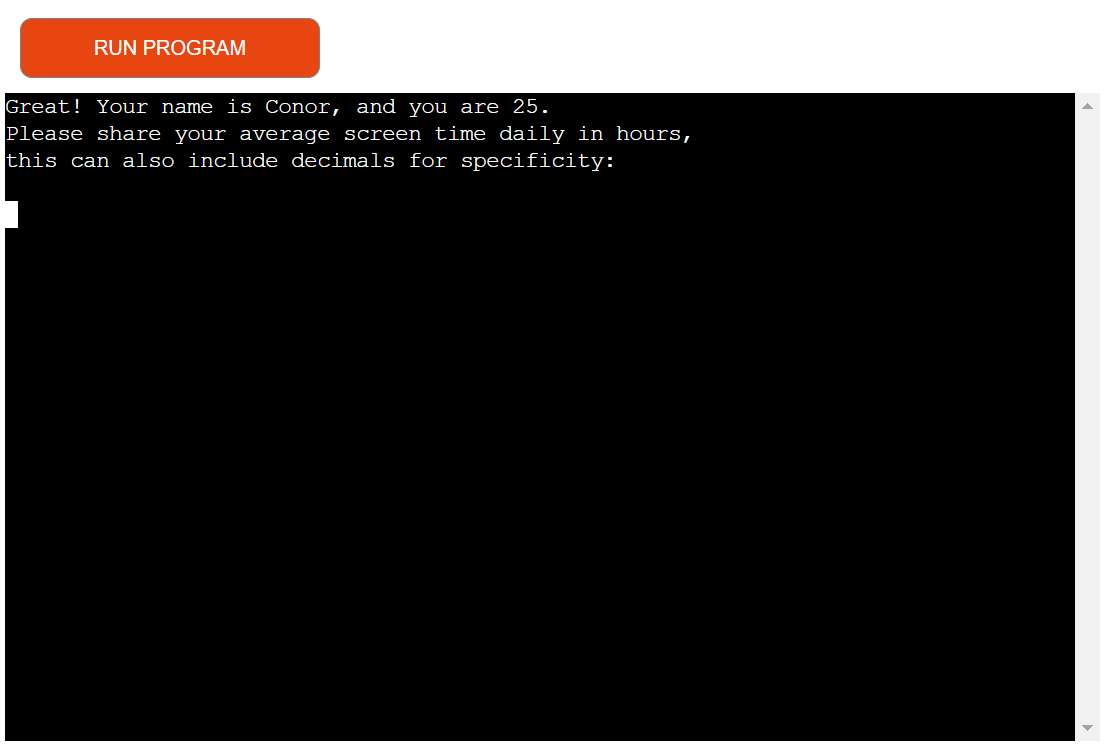
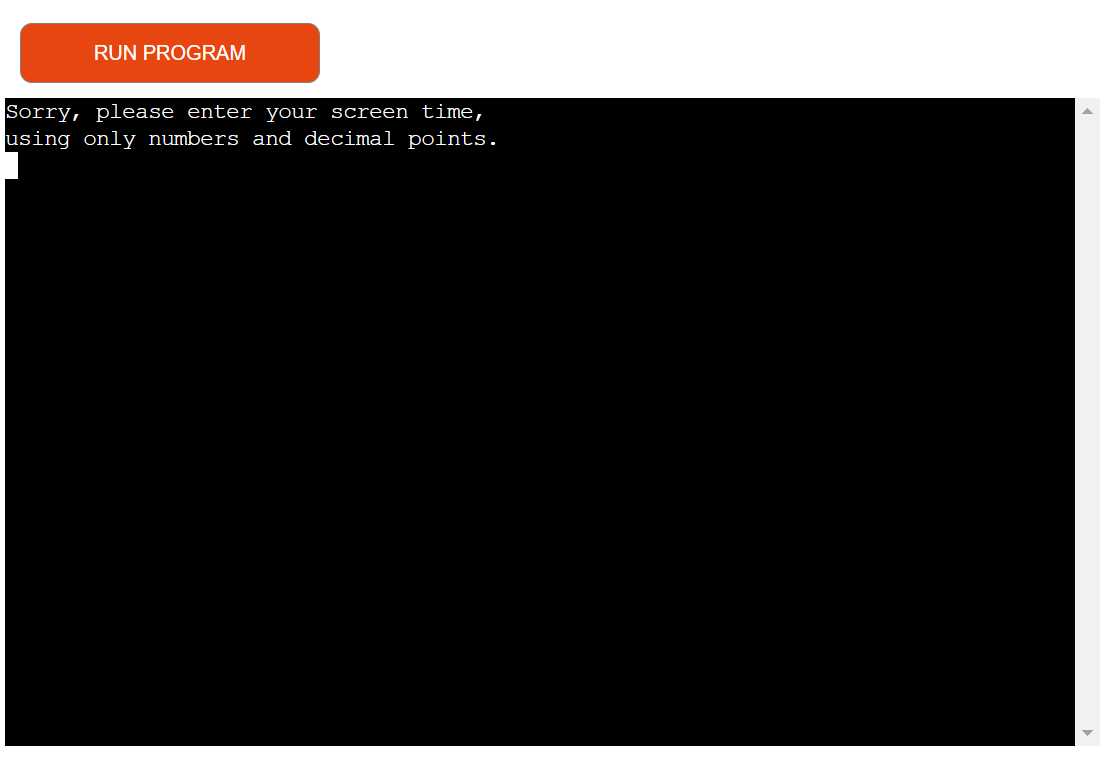
Changes to Defensive Programming

Changed region(s): [[0.0, 0.0, 0.9819, 0.244], [0.0, 0.2745, 0.0307, 0.305]]

diff --git a/TESTING.md b/TESTING.md
@@ -67,11 +67,12 @@ Defensive programming was manually tested with the below user acceptance testing
 
 | Page | Expectation | Test | Result | Fix | Screenshot |
 | --- | --- | --- | --- | --- | --- |
-| Home | Screen Time is built to store name and age | Tested the feature entering them into the survey | The feature behaved as expected, and it displayed both in the screen time question | Test concluded and passed | ![screenshot](documentation/features/screentime.png) |
-| Home | Feature is expected to only allow decimals or numbers | Tested the feature by typing "hello" | The feature behaved as expected, and it blocked my input of letters | Test concluded and passed | ![screenshot](documentation/features/screentime2.png) |
-| Home | Feature is expected to stop and loop the question if answered incorrectly | Tested the feature by typing "test" instead of "yes" or "no" | The feature behaved as expected, and it stopped me and looped the question | Test concluded and passed | ![screenshot](documentation/features/yesorno.png) |
-| Home | Feature is expected to only allow "A" "B" or "C" answers | Tested the feature by typing "D" | The feature behaved as expected, the question looped instead of allowing a pass through the question | Test concluded and passed | ![screenshot](documentation/features/abcd.png) |
-| Home | Feature is expected to feedback once the user finished the survey | Tested the feature by answering all questions | The feature behaved as expected, and it displayed the appropriate feedback message based on the answers I gave | Test concluded and passed | ![screenshot](documentation/features/feedbacktesting.png) |
+| Home | Name function is for storing the name input when asked | Tested the feature entering my name when asked | The feature behaved as expected, and it displayed my name as part of the age function | Test concluded and passed | ![screenshot](documentation/features/namefunc.png) |
+| Home | Age is built to store the age input | Tested the feature by entering my age when asked in the survey | The feature behaved as expected, and it displayed my age long with my name | Test concluded and passed | ![screenshot](documentation/features/agefunc.png) |
+| Home | Screen Time is expected to only allow decimals or numbers | Tested the feature by typing "hello" | The feature behaved as expected, and it blocked my input of letters | Test concluded and passed | ![screenshot](documentation/features/screentime2.png) |
+| Home | Yes or No is expected to stop and loop the question if answered incorrectly | Tested the feature by typing "test" instead of "yes" or "no" | The feature behaved as expected, and it stopped me and looped the question | Test concluded and passed | ![screenshot](documentation/features/yesorno.png) |
+| Home | Multiple choice is expected to only allow "A" "B" or "C" answers | Tested the feature by typing "D" | The feature behaved as expected, the question looped instead of allowing a pass through the question | Test concluded and passed | ![screenshot](documentation/features/abcd.png) |
+| Home | Feedback is expected to operate once the user finished the survey | Tested the feature by answering all questions | The feature behaved as expected, and it displayed the appropriate feedback message based on the answers I gave | Test concluded and passed | ![screenshot](documentation/features/feedbacktesting.png) |
 
 
 ## Bugs
